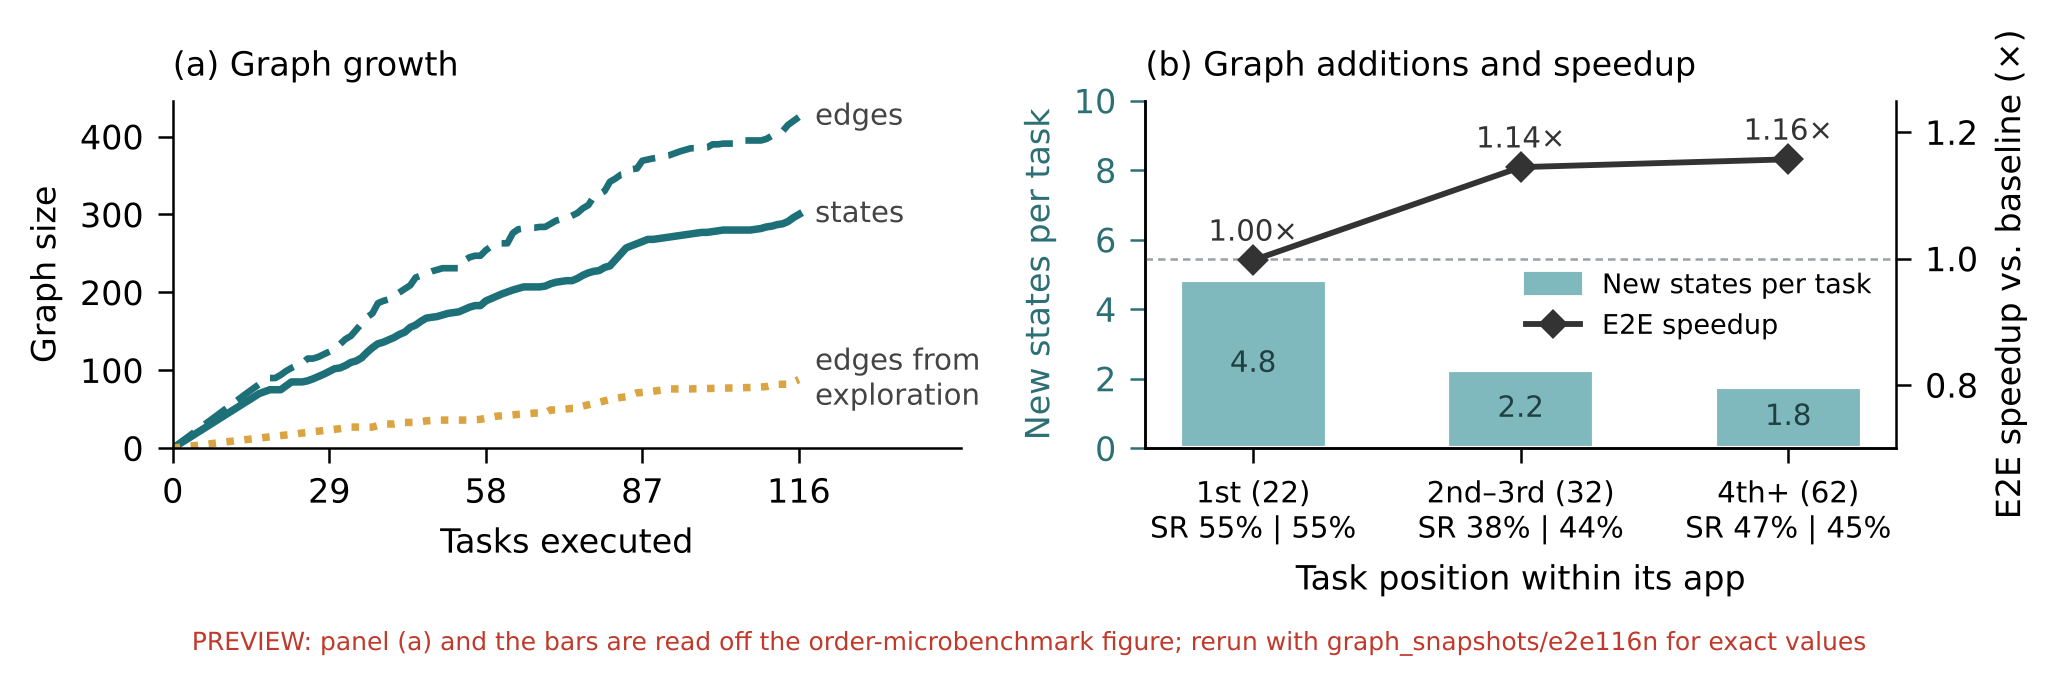
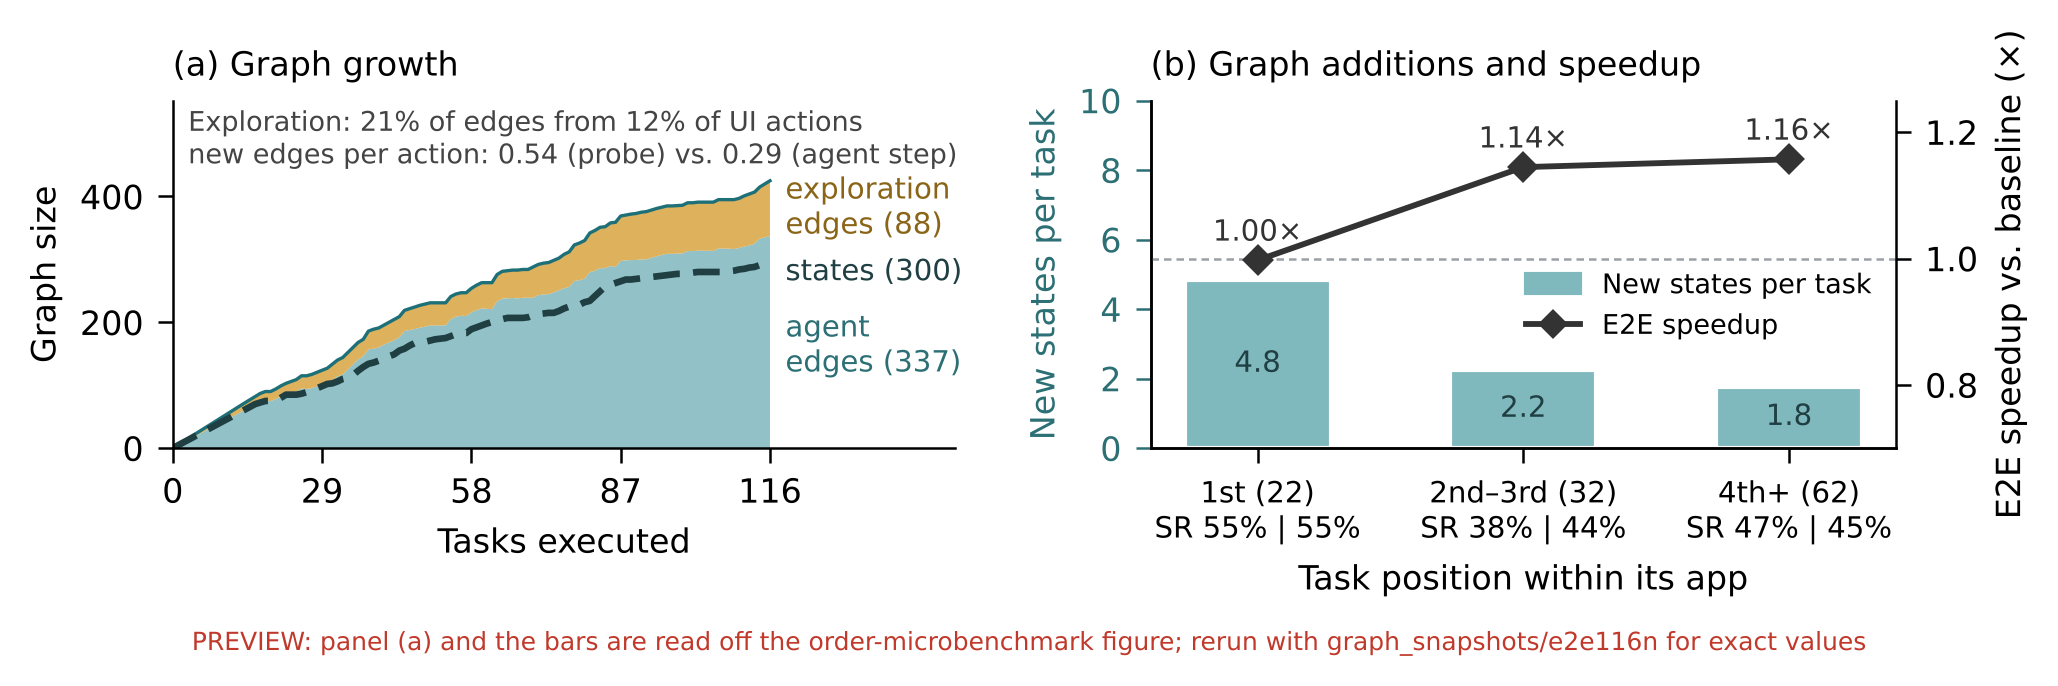
Show exploration's share of graph edges relative to its share of actions
- Panel (a): edges as a stack of agent-discovered and exploration-discovered
  edges, states as a line
- Annotate exploration's share of edges vs. its share of UI actions and new
  edges per action (probe vs. agent step), all computed from the data

Claude-Session: https://claude.ai/code/session_01Foy816EDaP6bFskxeT2VsC

diff --git a/experiments/trace_reachability_validation/scripts/fig_overall_graph_position.py b/experiments/trace_reachability_validation/scripts/fig_overall_graph_position.py
@@ -125,16 +125,28 @@ def main():
 
   fig, (a, b) = plt.subplots(1, 2, figsize=(6.9, 2.15), gridspec_kw={"width_ratios": [1.05, 1]})
 
-  # (a) graph growth
-  a.plot(g["x"], g["edges"], color=C_ME, lw=1.6, ls=(0, (4, 2)))
-  a.plot(g["x"], g["states"], color=C_ME, lw=1.8)
-  a.plot(g["x"], g["explore"], color=C4, lw=1.8, ls=(0, (1, 1.4)))
+  # (a) graph growth: edges as a stack of agent-discovered and exploration-discovered edges, states as a line
+  agent_edges = [e - x for e, x in zip(g["edges"], g["explore"])]
+  a.stackplot(g["x"], agent_edges, g["explore"], colors=[C3, C4], alpha=0.85, linewidth=0)
+  a.plot(g["x"], g["edges"], color=C_ME, lw=0.8)
+  a.plot(g["x"], g["states"], color="#1f3f42", lw=1.6, ls=(0, (4, 2)))
   n = len(order)
-  for y, label in ((g["edges"][-1], "edges"), (g["states"][-1], "states"), (g["explore"][-1], "edges from\nexploration")):
-    a.text(n + 3, y, label, va="center", fontsize=7, color="#444")
-  a.set_xlim(0, n + 30)
+  ex_final, ag_final = g["explore"][-1], agent_edges[-1]
+  top = max(g["edges"]) * 1.3
+  a.text(n + 3, ag_final + ex_final / 2, f"exploration\nedges ({ex_final:.0f})", va="center", fontsize=7, color="#8a6417")
+  a.text(n + 3, g["states"][-1] * 0.93, f"states ({g['states'][-1]:.0f})", va="center", fontsize=7, color="#1f3f42")
+  a.text(n + 3, ag_final * 0.48, f"agent\nedges ({ag_final:.0f})", va="center", fontsize=7, color="#2c6f75")
+  # exploration's share of the edges vs. its share of the UI actions (probes vs. agent steps, FULL45)
+  F = [rows[(t, "FULL45")] for t in tasks]
+  probes, steps = sum(r["probes"] for r in F), sum(r["steps"] for r in F)
+  a.text(3, top * 0.98,
+         f"Exploration: {ex_final / g['edges'][-1]:.0%} of edges from {probes / (probes + steps):.0%} of UI actions\n"
+         f"new edges per action: {ex_final / probes:.2f} (probe) vs. {ag_final / steps:.2f} (agent step)",
+         fontsize=6.5, color="#444", va="top")
+  a.set_ylim(0, top)
+  a.set_xlim(0, n + 36)
   a.set_xticks([0, 29, 58, 87, 116])
-  a.set_ylim(bottom=0)
+
   a.set_xlabel("Tasks executed")
   a.set_ylabel("Graph size")
   a.set_title("(a) Graph growth", fontsize=8, loc="left")
